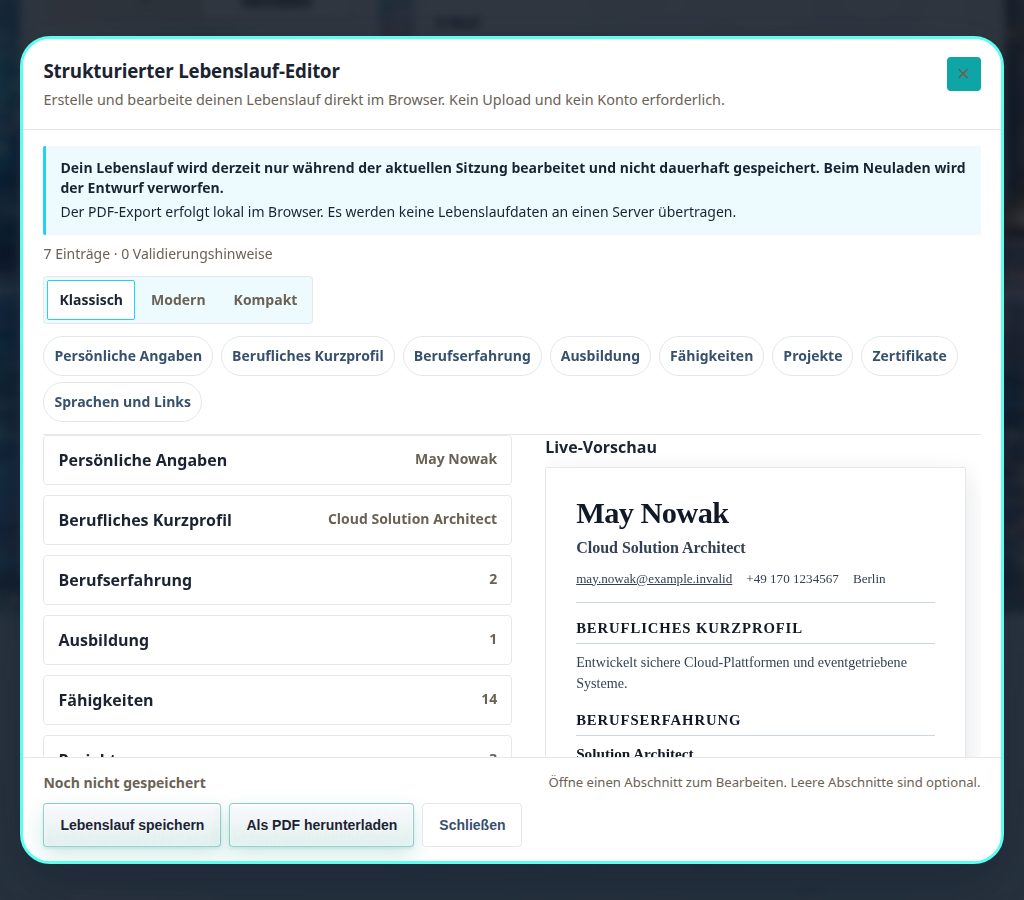
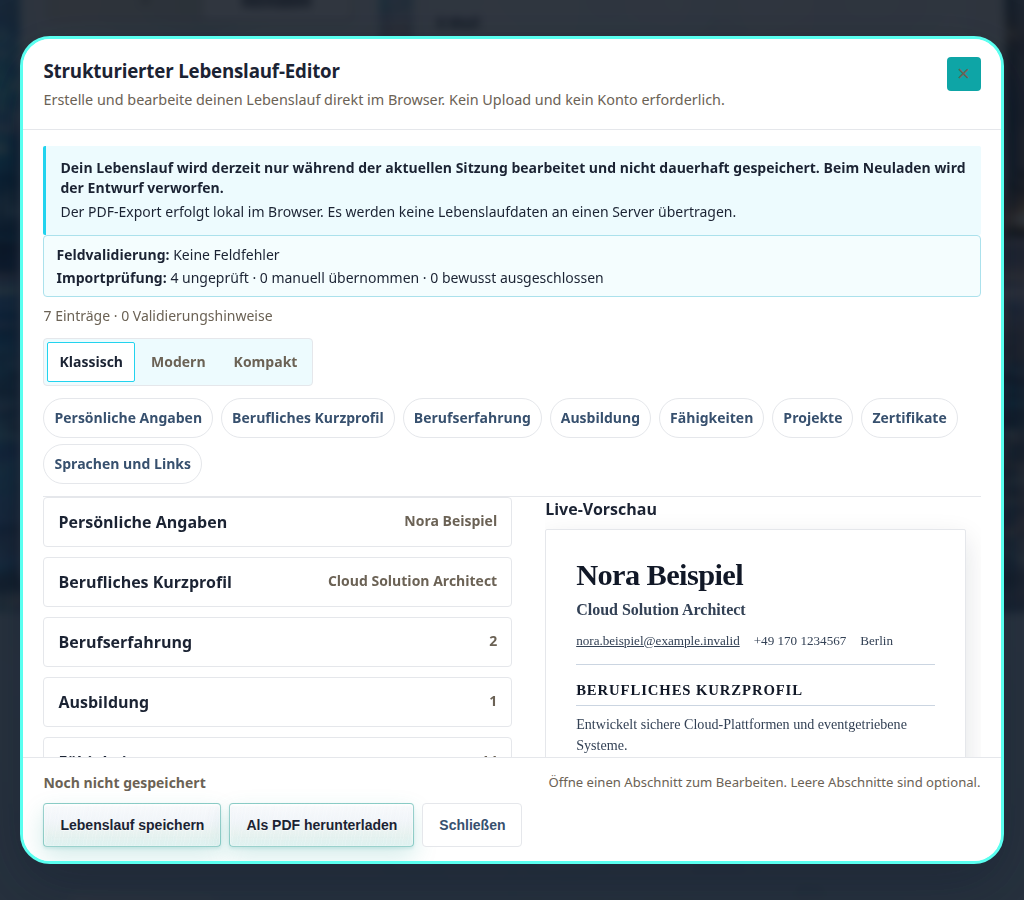
test(cv-import): anonymize real-world fixtures

diff --git a/src/lib/cvBuilder/pdfImport.test.ts b/src/lib/cvBuilder/pdfImport.test.ts
@@ -618,7 +618,7 @@ Originalzeile`);
 
 describe('CV-BUILDER-REAL-WORLD-QA-02E skills sections', () => {
   it('keeps skills from separate architecture/cloud/technology sections apart', () => {
-    const result = parseCvBuilderImportText(`May Nowak
+    const result = parseCvBuilderImportText(`Nora Beispiel
 E-Mail: may@example.invalid
 
 PROFIL
@@ -644,7 +644,7 @@ Docker, GitHub Actions, Linux`);
 
 describe('CV-BUILDER-REAL-WORLD-QA-02E certification goals', () => {
   it('does not create certificates for goals or preparations in DE and EN', () => {
-    const result = parseCvBuilderImportText(`May Nowak
+    const result = parseCvBuilderImportText(`Nora Beispiel
 E-Mail: may@example.invalid
 
 CERTIFICATIONS
@@ -670,8 +670,8 @@ ITIL Foundation – angestrebt`);
 
 describe('CV-BUILDER-REAL-WORLD-QA-02E personal details', () => {
   it('keeps name/contact separate and extracts a short location from the personal block', () => {
-    const result = parseCvBuilderImportText(`May Nowak
-may.nowak@example.invalid
+    const result = parseCvBuilderImportText(`Nora Beispiel
+nora.beispiel@example.invalid
 +49 170 1234567
 Berlin
 
@@ -679,8 +679,8 @@ PROFIL
 Cloud Solution Architect
 Entwickelt sichere Cloud-Plattformen.`);
     expect(result.draft.personal).toMatchObject({
-      fullName: 'May Nowak',
-      email: 'may.nowak@example.invalid',
+      fullName: 'Nora Beispiel',
+      email: 'nora.beispiel@example.invalid',
       phone: '+49 170 1234567',
       location: 'Berlin',
     });
@@ -693,7 +693,7 @@ Entwickelt sichere Cloud-Plattformen.`);
 
 describe('CV-BUILDER-REAL-WORLD-QA-02E training in experience', () => {
   it('keeps undated training/lab lines out of an employment description', () => {
-    const result = parseCvBuilderImportText(`May Nowak
+    const result = parseCvBuilderImportText(`Nora Beispiel
 E-Mail: may@example.invalid
 
 BERUFLICHER WERDEGANG
@@ -713,7 +713,7 @@ Praktische Cloud-Übungen.`);
 
 describe('CV-BUILDER-REAL-WORLD-QA-02E review reasons', () => {
   it('carries the training reason to all lines of a training block', () => {
-    const result = parseCvBuilderImportText(`May Nowak
+    const result = parseCvBuilderImportText(`Nora Beispiel
 E-Mail: may@example.invalid
 
 BERUFLICHER WERDEGANG
@@ -728,7 +728,7 @@ Praktische Cloud-Übungen.`);
 
 describe('CV-BUILDER-REAL-WORLD-QA-02E experience fields', () => {
   it('separates role-like values from employers instead of relying on word order', () => {
-    const result = parseCvBuilderImportText(`May Nowak
+    const result = parseCvBuilderImportText(`Nora Beispiel
 E-Mail: may@example.invalid
 
 BERUFLICHER WERDEGANG
@@ -743,7 +743,7 @@ BERUFLICHER WERDEGANG
 
 describe('CV-BUILDER-REAL-WORLD-QA-02E education fields', () => {
   it('keeps institution, field, degree and period separate', () => {
-    const result = parseCvBuilderImportText(`May Nowak
+    const result = parseCvBuilderImportText(`Nora Beispiel
 E-Mail: may@example.invalid
 
 AUSBILDUNG
@@ -764,7 +764,7 @@ Schwerpunkt verteilte Systeme.`);
 
 describe('CV-BUILDER-REAL-WORLD-QA-02E project fields', () => {
   it('cleans dated project names, preserves the period and extracts evidenced technologies', () => {
-    const result = parseCvBuilderImportText(`May Nowak
+    const result = parseCvBuilderImportText(`Nora Beispiel
 E-Mail: may@example.invalid
 
 PROJEKTE
@@ -784,7 +784,7 @@ https://github.com/example/cloud`);
 
 describe('CV-BUILDER-REAL-WORLD-QA-02E link labels', () => {
   it('uses repository/profile names instead of identical generic labels', () => {
-    const result = parseCvBuilderImportText(`May Nowak
+    const result = parseCvBuilderImportText(`Nora Beispiel
 E-Mail: may@example.invalid
 
 LINKS

diff --git a/src/components/CvBuilderEditor.test.tsx b/src/components/CvBuilderEditor.test.tsx
@@ -277,7 +277,7 @@ describe("CV-BUILDER-REAL-WORLD-QA-02E import quality", () => {
   it("shows import review separately from field validation", () => {
     render(
       <Harness
-        initial={{ ...createEmptyCvBuilderDraft(), personal: { fullName: "May Nowak" } }}
+        initial={{ ...createEmptyCvBuilderDraft(), personal: { fullName: "Nora Beispiel" } }}
         importReview={{ total: 4, pending: 2, accepted: 1, ignored: 1 }}
       />
     );

diff --git a/docs/reports/CV-BUILDER-REAL-WORLD-QA-02E-REPORT.md b/docs/reports/CV-BUILDER-REAL-WORLD-QA-02E-REPORT.md
@@ -198,6 +198,17 @@ Screenshots/PDFs: `docs/reports/assets/CV-BUILDER-REAL-WORLD-QA-02E/`.
 **GO für Review und kontrollierten Merge.**
 **NO-GO für Production-Deployment ohne gesonderte Freigabe.**
 
+## FINAL REVIEW 01 — Datenschutz-Hygiene
+
+Neue 02E-Fixtures und Screenshots verwenden jetzt die eindeutig fiktive
+Identität **Nora Beispiel** (`nora.beispiel@example.invalid`) statt eines
+realitätsnahen Personennamens. Bestehende, unabhängige Anonymisierungstests
+mit explizitem Namensbezug wurden nicht verändert. Screenshots wurden mit der
+fiktiven Identität neu erzeugt; kein privates PDF und keine realen
+Kontaktdaten im Repository.
+
+Fokussiert: 46 PASS; 02E-E2E 320–1440 PASS.
+
 ## Recovery-Regel
 
 Maßgeblich sind diese Datei und der letzte gepushte Commit auf

diff --git a/docs/AI_AUDITLOG.md b/docs/AI_AUDITLOG.md
@@ -5905,3 +5905,9 @@ evidence extraction; link labels include repository/profile paths; editor
 shows field validation and import review separately. Focused 61 PASS, serial
 full **1767 PASS / 5 skipped**, build PASS. No real CV data, no AI/OCR/backend,
 no merge/deploy/RIS/AWS/Cognito/Terraform/consent change.
+
+**FINAL REVIEW 01 — Privacy Hygiene:** New 02E fixtures/screenshots now use
+the clearly fictional identity `Nora Beispiel` / `nora.beispiel@example.invalid`
+instead of a realistic person's name. Existing unrelated anonymization tests
+were left unchanged. Focused 46 PASS, 02E-E2E 320–1440 PASS. No real PDFs,
+contact data or private screenshots committed.
